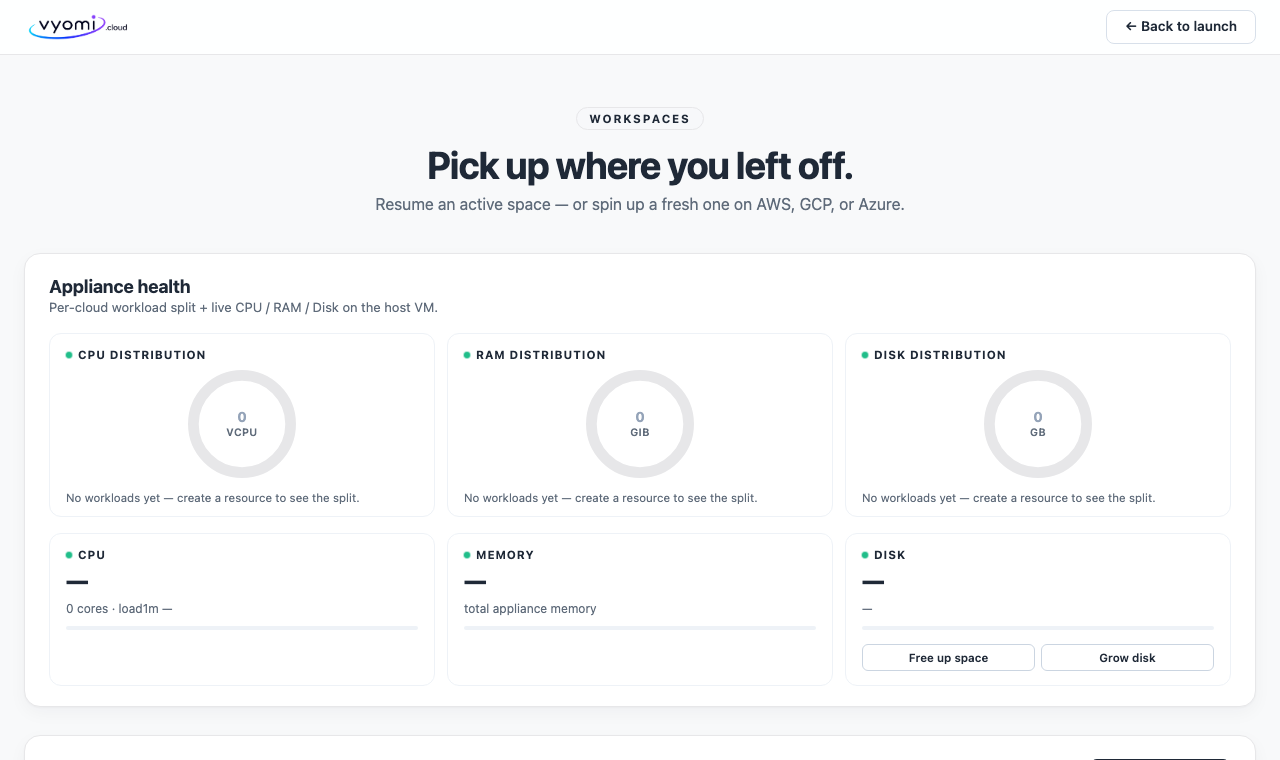
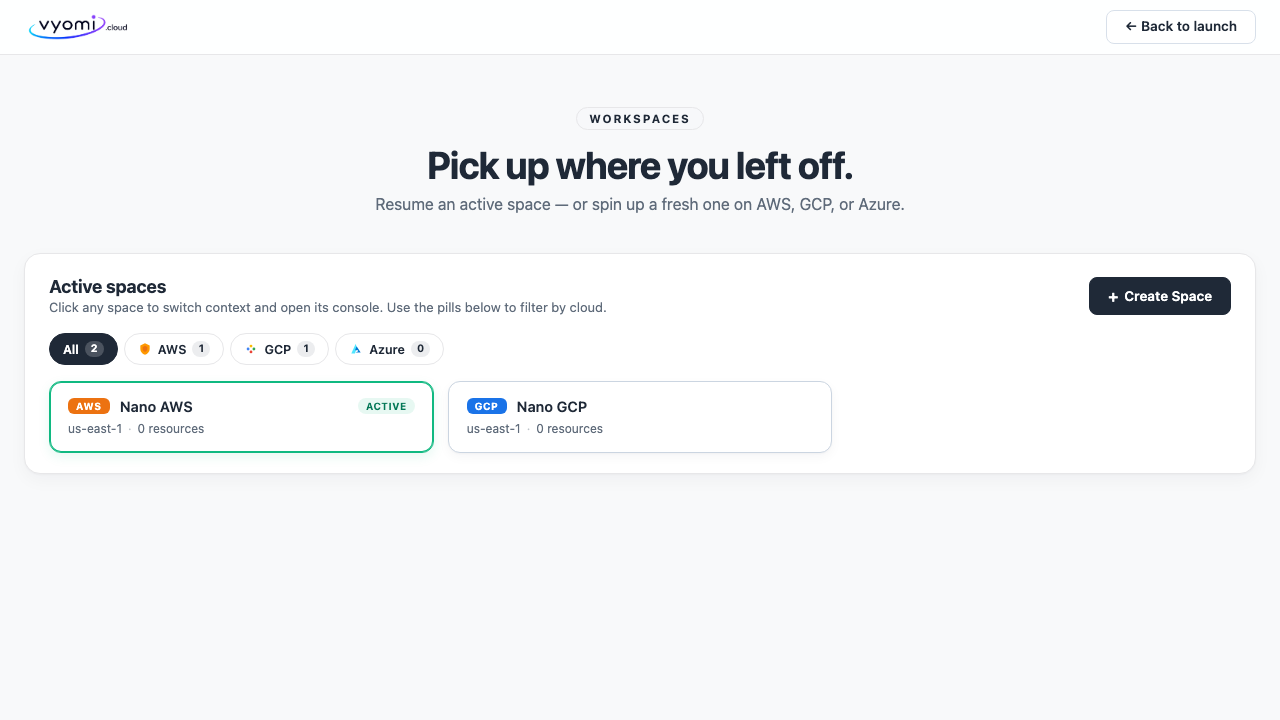
fix(wasm): dashboard 'not loading' (stale SW + claim race) + drop N/A host panel
Three fixes for the reported 'splash/launch not loading' + CPU/RAM/Disk:

1. Claim-race bug (the real 'not loading'): the dashboard's inline loadSpaces()
   fetches /api/* at parse, before the SW takes control. When clients.claim()
   then raced controller->true, nano-sw saw 'already controlled' and skipped the
   reload, leaving the page with its failed initial fetches ('Couldn't load
   spaces: Unexpected token <'). Fix: capture control state SYNCHRONOUSLY at
   script top (wasControlledAtStart); if the page started uncontrolled, reload
   once to a controlled load. Applied to nano-sw.js (dashboard) + nano-boot.js
   (consoles). Now /api/spaces -> 200 application/json, cards render.

2. Stale service worker (returning visitors get wedged): register with
   updateViaCache:'none' + reg.update() so the freshest sw.js always wins. Added
   reset.html — unregisters all SWs + clears caches/storage for a clean slate.

3. CPU/RAM/Disk: correct — those are the appliance HOST VM's stats, N/A in a
   browser tab. make_pages.py now hides the '#stats-card' Appliance-health panel
   on the Nano dashboard. Also fixed the GCP/Azure space fixtures to use the
   right region/account (us-central1 / eastus).

e2e now also asserts the dashboard loads spaces from the SW (no 'Couldn't load
spaces') and waits for the stable post-reload state. All flow checks green.

diff --git a/wasm/reset.html b/wasm/reset.html
@@ -1,0 +1,42 @@
+<!DOCTYPE html>
+<!-- Vyomi Nano — clean slate. Unregisters every service worker + clears caches
+     and storage for this origin, then returns to the app. Use this if the app
+     gets wedged on a stale service worker from an earlier build. -->
+<html lang="en">
+<head><meta charset="utf-8"><title>Vyomi Nano — reset</title>
+<style>
+  body { font: 14px/1.6 ui-monospace, Menlo, monospace; background:#05071a; color:#e4e4e7;
+         display:grid; place-items:center; min-height:100vh; margin:0; text-align:center; }
+  a { color:#60a5fa; } .ok{color:#34d399}
+</style></head>
+<body>
+  <div>
+    <div id="s">Resetting Vyomi Nano…</div>
+    <div style="margin-top:14px"><a href="/">← back to Nano</a></div>
+  </div>
+<script>
+(async () => {
+  const s = document.getElementById("s");
+  const out = [];
+  try {
+    if ("serviceWorker" in navigator) {
+      const regs = await navigator.serviceWorker.getRegistrations();
+      await Promise.all(regs.map((r) => r.unregister()));
+      out.push(`unregistered ${regs.length} service worker(s)`);
+    }
+    if (window.caches) {
+      const keys = await caches.keys();
+      await Promise.all(keys.map((k) => caches.delete(k)));
+      out.push(`cleared ${keys.length} cache(s)`);
+    }
+    try { localStorage.clear(); sessionStorage.clear(); out.push("cleared storage"); } catch (_) {}
+    s.innerHTML = '<span class="ok">Reset complete</span> — ' + out.join(", ") +
+      '.<br>Opening a fresh Nano…';
+    setTimeout(() => location.replace("/"), 1400);
+  } catch (e) {
+    s.textContent = "Reset error: " + e;
+  }
+})();
+</script>
+</body>
+</html>

diff --git a/wasm/nano-sw.js b/wasm/nano-sw.js
@@ -1,20 +1,27 @@
 /* Vyomi Nano — lightweight service-worker bootstrap for pages that need the
  * SW to serve their /api/* reads but DON'T need the Pyodide backend (the launch
- * dashboard: spaces/host/runtime are all served from fixtures). Registers the
- * SW and, on first load, reloads once so the SW controls the page (a SW doesn't
- * control the page that registered it until a reload). No Pyodide, so it's
- * instant — unlike nano-boot.js, which the consoles use.
+ * dashboard: spaces/host/runtime come from fixtures). No Pyodide, so instant.
+ *
+ * The page's inline scripts (e.g. clouds.html's loadSpaces) fetch /api/* at
+ * parse — BEFORE this deferred script runs. If the page wasn't controlled at
+ * that point, those fetches hit the network (404 HTML) and fail. So we capture
+ * control state SYNCHRONOUSLY at the top: if the page started uncontrolled, we
+ * reload once to a controlled load where the SW intercepts from the first call.
+ * (Just checking `controller` after registering is racy — clients.claim() can
+ * flip it to true mid-script, masking that the initial fetches already failed.)
  */
+const wasControlledAtStart = !!(navigator.serviceWorker && navigator.serviceWorker.controller);
+
 (async () => {
   if (!("serviceWorker" in navigator)) return;
   try {
-    await navigator.serviceWorker.register("/sw.js", { scope: "/" });
+    const reg = await navigator.serviceWorker.register("/sw.js", { scope: "/", updateViaCache: "none" });
+    try { await reg.update(); } catch (_) {}
     await navigator.serviceWorker.ready;
-    if (!navigator.serviceWorker.controller) {
-      const n = Number(sessionStorage.getItem("nano-sw-reload") || "0");
-      if (n < 4) { sessionStorage.setItem("nano-sw-reload", String(n + 1)); location.reload(); return; }
-      return; // gave up — page still renders, just without served /api reads
-    }
-    sessionStorage.removeItem("nano-sw-reload");
-  } catch (_) { /* page still renders */ }
+    if (wasControlledAtStart) { sessionStorage.removeItem("nano-sw-reload"); return; }
+    // Started uncontrolled -> the page's initial /api reads failed -> reload to
+    // a controlled load (guarded against an infinite loop).
+    const n = Number(sessionStorage.getItem("nano-sw-reload") || "0");
+    if (n < 4) { sessionStorage.setItem("nano-sw-reload", String(n + 1)); location.reload(); }
+  } catch (_) { /* page still renders, just without served /api reads */ }
 })();

diff --git a/wasm/nano-boot.js b/wasm/nano-boot.js
@@ -14,6 +14,9 @@
  * step 4, so there's no race — early calls just wait for the backend.
  */
 const BASE = "";  // wasm/ is the web root (see sw.js)
+// Capture control state SYNCHRONOUSLY (see nano-sw.js for why): the console's
+// inline boot() fetches /api/* at parse, before this module runs.
+const wasControlledAtStart = !!(navigator.serviceWorker && navigator.serviceWorker.controller);
 const MODULES = [
   "backends/store.py",
   "providers/registry.py", "providers/aws.py", "providers/gcp.py",
@@ -81,12 +84,13 @@ import builtins; builtins._disp = _disp
 (async () => {
   if (!("serviceWorker" in navigator)) { banner("Nano needs a service-worker-capable browser.", true); return; }
   try {
-    await navigator.serviceWorker.register(BASE + "/sw.js", { scope: BASE + "/" });
+    const reg = await navigator.serviceWorker.register(BASE + "/sw.js", { scope: BASE + "/", updateViaCache: "none" });
+    try { await reg.update(); } catch (_) {}
     await navigator.serviceWorker.ready;
     // Arriving from the dashboard we're already CONTROLLED. If a console URL is
-    // opened cold/directly, reload once to gain control so /api/* is intercepted
-    // from the first call (else the console's boot() would 404 + redirect away).
-    if (!navigator.serviceWorker.controller) {
+    // opened cold/directly, it started uncontrolled (boot()'s /api reads went to
+    // the network) — reload once to a controlled load before booting Pyodide.
+    if (!wasControlledAtStart) {
       const n = Number(sessionStorage.getItem("nano-boot-reload") || "0");
       if (n < 4) { sessionStorage.setItem("nano-boot-reload", String(n + 1)); location.reload(); return; }
     }

diff --git a/wasm/index.html b/wasm/index.html
@@ -651,6 +651,7 @@
       color: #1f2937 !important;
     }
 </style>
+  <style>#stats-card{display:none!important}</style>
   <script src="/nano-sw.js" defer></script>
 </head>
 <body>

diff --git a/wasm/build_fixtures.py b/wasm/build_fixtures.py
@@ -56,13 +56,15 @@ def _gcp_catalog():
 # A minimal-but-real shell context so the console's space gate passes and the
 # account/region chrome renders. Mirrors server.py's _space_payload defaults.
 def _space(provider):
+    region = {"gcp": "us-central1", "azure": "eastus"}.get(provider, "us-east-1")
+    account = {"gcp": "nano-project", "azure": "nano-sub"}.get(provider, "000000000000")
     return {
         "space_id": f"nano-{provider}",
         "name": f"Nano {provider.upper()}",
         "provider": provider,
         "status": "running",
-        "active_region": "us-east-1",
-        "active_account": "000000000000",
+        "active_region": region,
+        "active_account": account,
     }
 
 

diff --git a/wasm/make_pages.py b/wasm/make_pages.py
@@ -27,7 +27,10 @@ LINKS = {
 }
 
 BOOT = '  <script type="module" src="/nano-boot.js"></script>\n</head>'  # consoles: Pyodide + SW
-SW = '  <script src="/nano-sw.js" defer></script>\n</head>'               # dashboard: SW only
+# Dashboard: SW only + hide the appliance host-health panel (CPU/RAM/Disk are
+# the host VM's stats — there is no VM in a browser tab, so it's N/A for Nano).
+SW = ('  <style>#stats-card{display:none!important}</style>\n'
+      '  <script src="/nano-sw.js" defer></script>\n</head>')
 
 
 def _process(src_name, dst_name, inject):